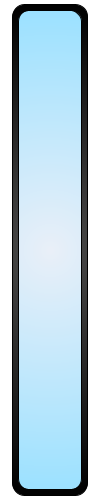
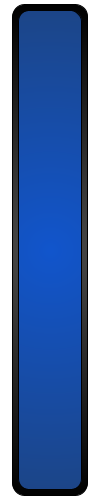
Added new sprites for powerups, changed how powerups work to now include the player's mana bar

diff --git a/main.py b/main.py
@@ -1,8 +1,6 @@
 import pygame
 import random
 
-from pygame.transform import scale
-
 p = pygame
 
 WIDTH = 800
@@ -16,7 +14,9 @@ BLACK = (0, 0, 0)
 RED = (255, 0, 0)
 GREEN = (0, 255, 0)
 BLUE = (0, 0, 255)
+LIGHT_BLUE = (52, 183, 235)
 YELLOW = (231,200,100)
+PURPLE = (113, 52, 235)
 IDK = (23,143,251)
 
 running = True
@@ -87,7 +87,7 @@ class Explosion(p.sprite.Sprite):
             self.rect.center = center
 
 class Bullet(p.sprite.Sprite):
-    def __init__(self,pos1,pos2):
+    def __init__(self,pos1,pos2,speedx):
         p.sprite.Sprite.__init__(self)
         self.height = 20
         self.width = 10
@@ -102,9 +102,10 @@ class Bullet(p.sprite.Sprite):
         self.rect.centerx = pos1
         self.rect.bottom = pos2
         self.speedy = 3
-
+        self.speedx = speedx
     def update(self):
         self.rect.y -= self.speedy
+        self.rect.x += self.speedx
         if self.rect.bottom <= 0:
             self.kill()
 
@@ -122,7 +123,8 @@ class StatusBar(p.sprite.Sprite):
         self.bar_height = 45
 
         self.margin = 5
-        self.spacing = (WIDTH//4) + 265
+        self.spacing = (WIDTH//2) + 105
+
 
         self.health_x = (WIDTH + 207) - self.margin - self.bar_width
         self.mana_x = self.health_x - self.bar_width - self.spacing
@@ -173,73 +175,77 @@ class Player(p.sprite.Sprite):
         self.last_reload = p.time.get_ticks()
         self.last_refill = p.time.get_ticks()
 
-        self.shoot_delay = 500
+        self.shoot_delay = 300
         self.reload_time = 2500
-        self.refill_delay = 300
+        self.refill_delay = 350
 
         self.reloading = False
+        self.counter = 0
 
+        # Player data
         self.score = 0
         self.ammo = 100
         self.max_ammo = 100
         self.health = MAX_HP
         self.mana = MAX_MANA
         self.lives = 3
-        self.lvl = 1
 
         self.total_score = 0
 
-        self.lvlup_threshold = 25
+        # Level data
+        self.lvlup_threshold = 30
+        self.lvl = 1
+
+        # Powerups
         self.bullet_dmg = 1
+        self.speedup = False
         self.dual_shot = False
         self.refilling = False
 
     def shoot(self):
-        self.now = p.time.get_ticks()
-
-        if self.reloading:
-            if self.now - self.last_reload > self.reload_time:
-                self.ammo = self.max_ammo
-                self.reloading = False
-            return
-
         if self.ammo <= 0:
             self.ammo = 0
             self.reloading = True
-            self.last_reload = self.now
+            return
 
         if self.now - self.last_shot > self.shoot_delay:
             self.last_shot = self.now
             if self.dual_shot:
-                b1 = Bullet(self.rect.centerx - 10, self.rect.top)
-                b2 = Bullet(self.rect.centerx + 10, self.rect.top)
+                b1 = Bullet(self.rect.centerx - 10, self.rect.top, -1)
+                b2 = Bullet(self.rect.centerx + 10, self.rect.top, 1)
+                b1.image = p.image.load("All Files/Powerups/bullet_dual.png")
+                b2.image = p.image.load("All Files/Powerups/bullet_dual.png")
                 all_sprites.add(b1, b2)
                 bullets.add(b1, b2)
-                self.mana -= 10
+                self.mana -= 5
                 if self.mana <= 0:
                     self.dual_shot = False
                     self.refilling = True
                     self.mana = 0
+
                 self.ammo -= 2
                 shoot_sound.play()
 
             else:
-                bullet = Bullet(self.rect.centerx,self.rect.top)
+                bullet = Bullet(self.rect.centerx,self.rect.top, 0)
                 all_sprites.add(bullet)
                 bullets.add(bullet)
+                if self.speedup:
+                    bullet.image = p.image.load("All Files/Powerups/bullet_speed.png")
                 self.ammo -= 1
                 shoot_sound.play()
-
-        if self.refilling:
-            if self.now - self.last_refill > self.refill_delay:
-                self.last_refill = self.now
-                self.mana += 5
-                if self.mana >= MAX_MANA:
-                    self.mana = MAX_MANA
-                    self.refilling = False
-
+            if self.speedup:
+                self.shoot_delay = 150
+                self.mana -= 2
+                if self.mana <= 0:
+                    self.mana = 0
+                    self.speedup = False
+                    self.refilling = True
+            else:
+                self.shoot_delay = 300
 
     def update(self):
+        self.now = p.time.get_ticks()
         k = p.key.get_pressed()
         mp = p.mouse.get_pressed()
 
@@ -254,6 +260,21 @@ class Player(p.sprite.Sprite):
                 self.rect.left = 0
         if mp[0]:
             self.shoot()
+
+        if self.refilling:
+            if self.now - self.last_refill > self.refill_delay:
+                self.last_refill = self.now
+                self.mana += 5
+                if self.mana >= MAX_MANA:
+                    self.mana = MAX_MANA
+                    self.refilling = False
+
+        if self.reloading:
+            if self.now - self.last_reload > self.reload_time:
+                self.ammo = self.max_ammo
+                self.last_reload = self.now
+                self.reloading = False
+
 
 
 class Mob(p.sprite.Sprite):
@@ -333,9 +354,9 @@ class Power(p.sprite.Sprite):
 
 def start_screen():
     screen.fill(BLACK)
-    draw_text(screen, "WELCOME", 64, WIDTH // 2, HEIGHT // 2.5, RED)
-    draw_text(screen, "Press SPACE to Start", 32, WIDTH // 2, (HEIGHT // 2.5) - 25, RED)
-    draw_text(screen, "Press Q to Quit", 32, WIDTH // 2, (HEIGHT // 2.5) + 60, RED)
+    draw_text(screen, "WELCOME", 64, WIDTH // 2, HEIGHT // 2.5, PURPLE)
+    draw_text(screen, "Press SPACE to Start", 32, WIDTH // 2, (HEIGHT // 2.5) - 25, PURPLE)
+    draw_text(screen, "Press Q to Quit", 32, WIDTH // 2, (HEIGHT // 2.5) + 60, PURPLE)
     p.display.flip()
     waiting = True
     while waiting:
@@ -353,8 +374,8 @@ def start_screen():
 def level_up():
     plr.score = 0
     screen.fill(BLACK)
-    draw_text(screen, "Level up!", 64, WIDTH // 2, (HEIGHT // 2.5) - 20, RED)
-    draw_text(screen, f"Level {plr.lvl}", 32, WIDTH // 2, (HEIGHT // 2.5) + 55, RED)
+    draw_text(screen, "Level up!", 64, WIDTH // 2, (HEIGHT // 2.5) - 20, LIGHT_BLUE)
+    draw_text(screen, f"Level {plr.lvl}", 32, WIDTH // 2, (HEIGHT // 2.5) + 55, LIGHT_BLUE)
     p.display.flip()
     waiting = True
 
@@ -430,7 +451,7 @@ all_sprites.add(plr)
 
 status_bar = StatusBar(plr)
 
-meteor_spawn_delay = 500
+meteor_spawn_delay = 600
 last_meteor_spawn = p.time.get_ticks()
 
 background = p.image.load('All Files/background.png')
@@ -451,7 +472,6 @@ p.mixer.music.set_volume(0.05)
 while running:
     clock.tick(FPS)
     current_time = p.time.get_ticks()
-
     for event in p.event.get():
         if event.type == p.QUIT:
             running = False
@@ -465,6 +485,7 @@ while running:
                     plr.lives = 5
                     plr.health = MAX_HP
                     plr.score = 0
+                    plr.counter = 0
                     plr.ammo = plr.max_ammo
                     all_sprites.empty()
                     meteors.empty()
@@ -479,8 +500,9 @@ while running:
         p.mixer.music.stop()
         screen.fill(BLACK)
         draw_text(screen, "GAME OVER", 64, WIDTH // 2, HEIGHT // 2.5, RED)
-        draw_text(screen, "Press SPACE to Restart", 32, WIDTH // 2, (HEIGHT // 2.5) - 20, RED)
-        draw_text(screen, "Press Q to Quit", 32, WIDTH // 2, (HEIGHT // 2.5) + 55, RED)
+        draw_text(screen, "Press SPACE to Restart", 32, WIDTH // 2, (HEIGHT // 2.5) - 25, PURPLE)
+        draw_text(screen, "Press Q to Quit", 32, WIDTH // 2, (HEIGHT // 2.5) + 60, PURPLE)
+        draw_text(screen, f"You killed {plr.total_score} mobs!", 32, WIDTH // 2, (HEIGHT // 2.5) + 100, YELLOW)
         p.display.flip()
 
     else:
@@ -491,9 +513,6 @@ while running:
         for event in p.event.get():
             if event.type == p.QUIT:
                 running = False
-
-            if event.type == p.USEREVENT:
-                plr.shoot_delay = 500
 
 
         hit_player =  p.sprite.spritecollide(plr, meteors, True)
@@ -520,7 +539,7 @@ while running:
                     expl = Explosion(mob.rect.center, 'lg')
                     all_sprites.add(expl)
                     pow = Power(mob.rect.centerx, mob.rect.centery)
-                    if plr.lvl >= 3:
+                    if plr.lvl >= 2:
                         if pow.ran <= pow.spawn_percent:
                             pow.spawn = True
                         if pow.spawn:
@@ -538,8 +557,7 @@ while running:
                     plr.dual_shot = True
                     plr.bullet_dmg = 2
                 elif plr.pwup == 3:
-                    plr.shoot_delay = 250
-                    p.time.set_timer(p.USEREVENT, 2000)
+                    plr.speedup = True
                 elif plr.pwup == 4:
                     plr.health += 10
                     if plr.health >= MAX_HP:
@@ -550,12 +568,22 @@ while running:
         if plr.score >= plr.lvlup_threshold:
             plr.score = 0
             plr.lvl += 1
+            plr.counter += 1
+            print(f"Count: {plr.counter}")
             if plr.lvl <= 4 or plr.lvl >= 6 and plr.lvl != 10 and plr.lvl != 11:
                 level_up()
+
             elif plr.lvl == 5 or plr.lvl == 10:
                 boss_lvl()
             elif plr.lvl >= 11:
                 game_over = True
+
+        if plr.counter == 2:
+            pow.spawn_percent += 0.2
+            print(f"Powerup percentage: {pow.spawn_percent}")
+            plr.counter = 0
+            meteor_spawn_delay -= 100
+            print(f"Delay: {meteor_spawn_delay}")
 
 
         all_sprites.update()
@@ -565,9 +593,9 @@ while running:
 
         status_bar.update(screen)
 
-        draw_text(screen, f"Score: {plr.score}", 32, (WIDTH // 4) - 75, 10, YELLOW)
+        draw_text(screen, f"{plr.score}/{plr.lvlup_threshold}", 32, (WIDTH // 4) - 115, 10, YELLOW)
 
-        draw_lives(screen, WIDTH - 150, 10, plr.lives, life_icon)
+        draw_lives(screen, WIDTH//2.25, 10, plr.lives, life_icon)
         draw_text(screen, f"{plr.ammo}/{plr.max_ammo}", 32, 60, HEIGHT - 50, IDK)
 
         if plr.reloading:
